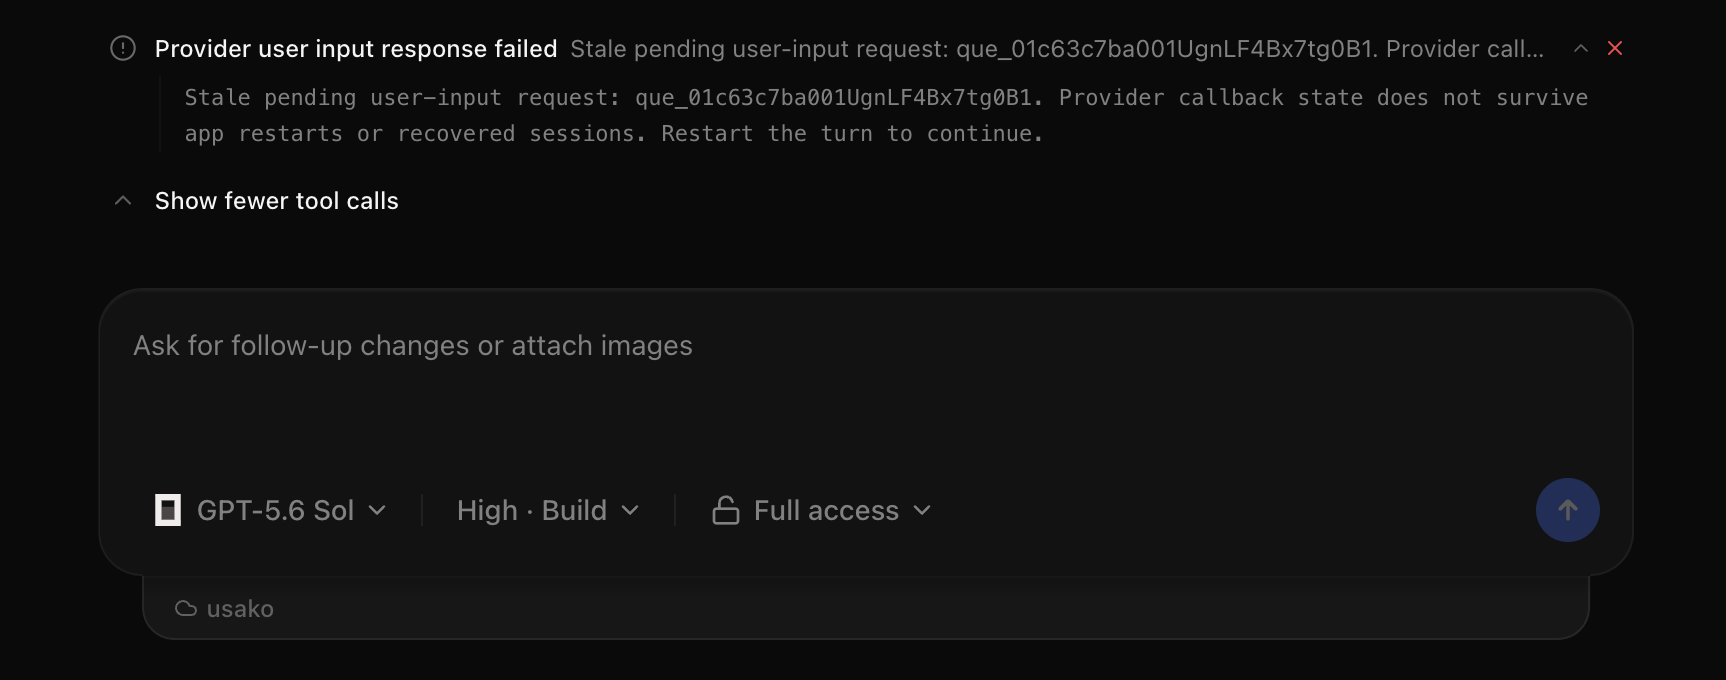
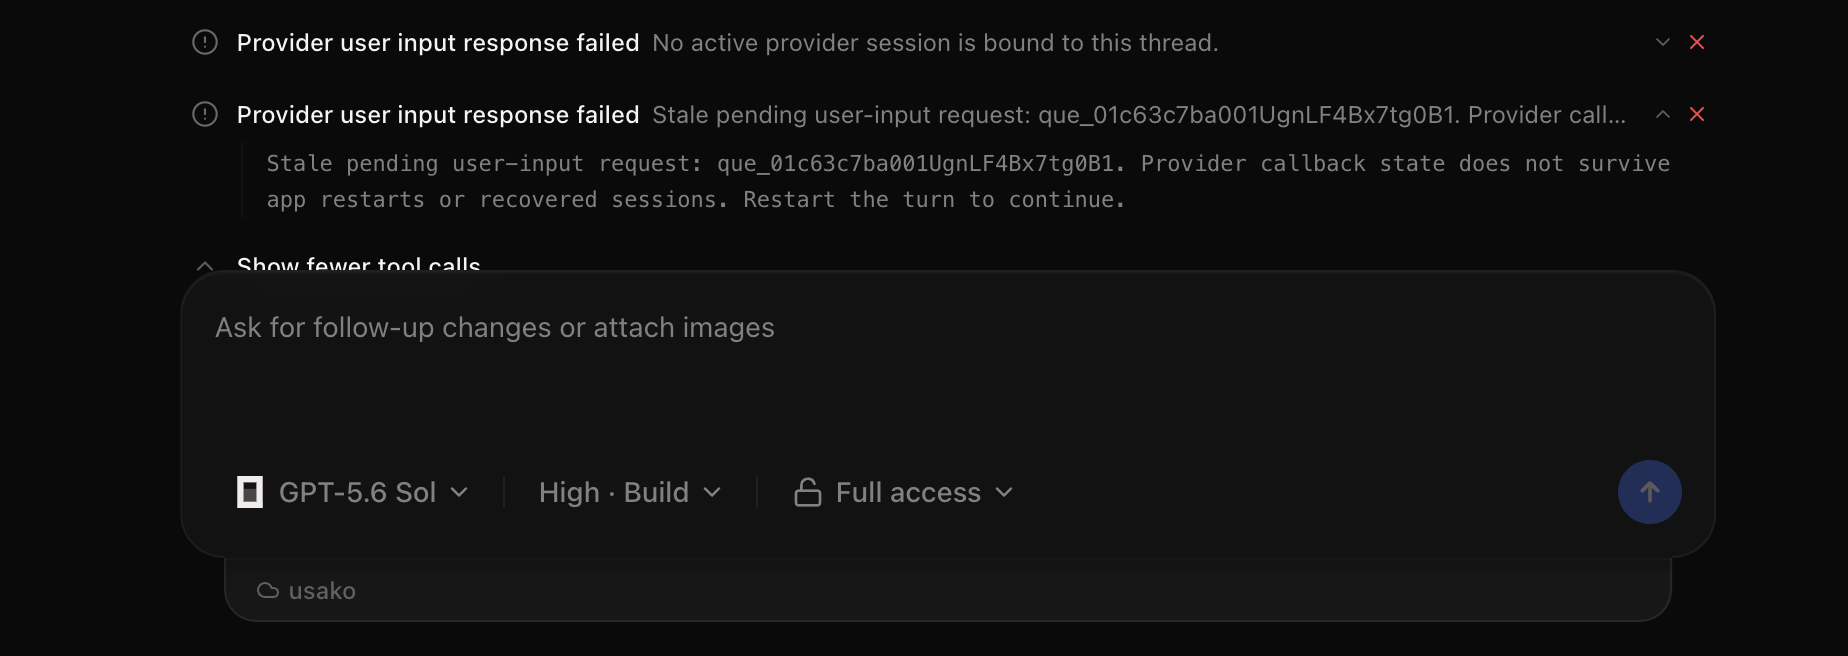
Add PR 7463 screenshots

diff --git a/.github/pr-assets/7463.md b/.github/pr-assets/7463.md
@@ -1,0 +1,4 @@
+# PR 7463 screenshots
+
+- `7463-before.png`: stale Input card with repeated provider-session failures
+- `7463-after.png`: stale callback guidance with the normal composer restored
